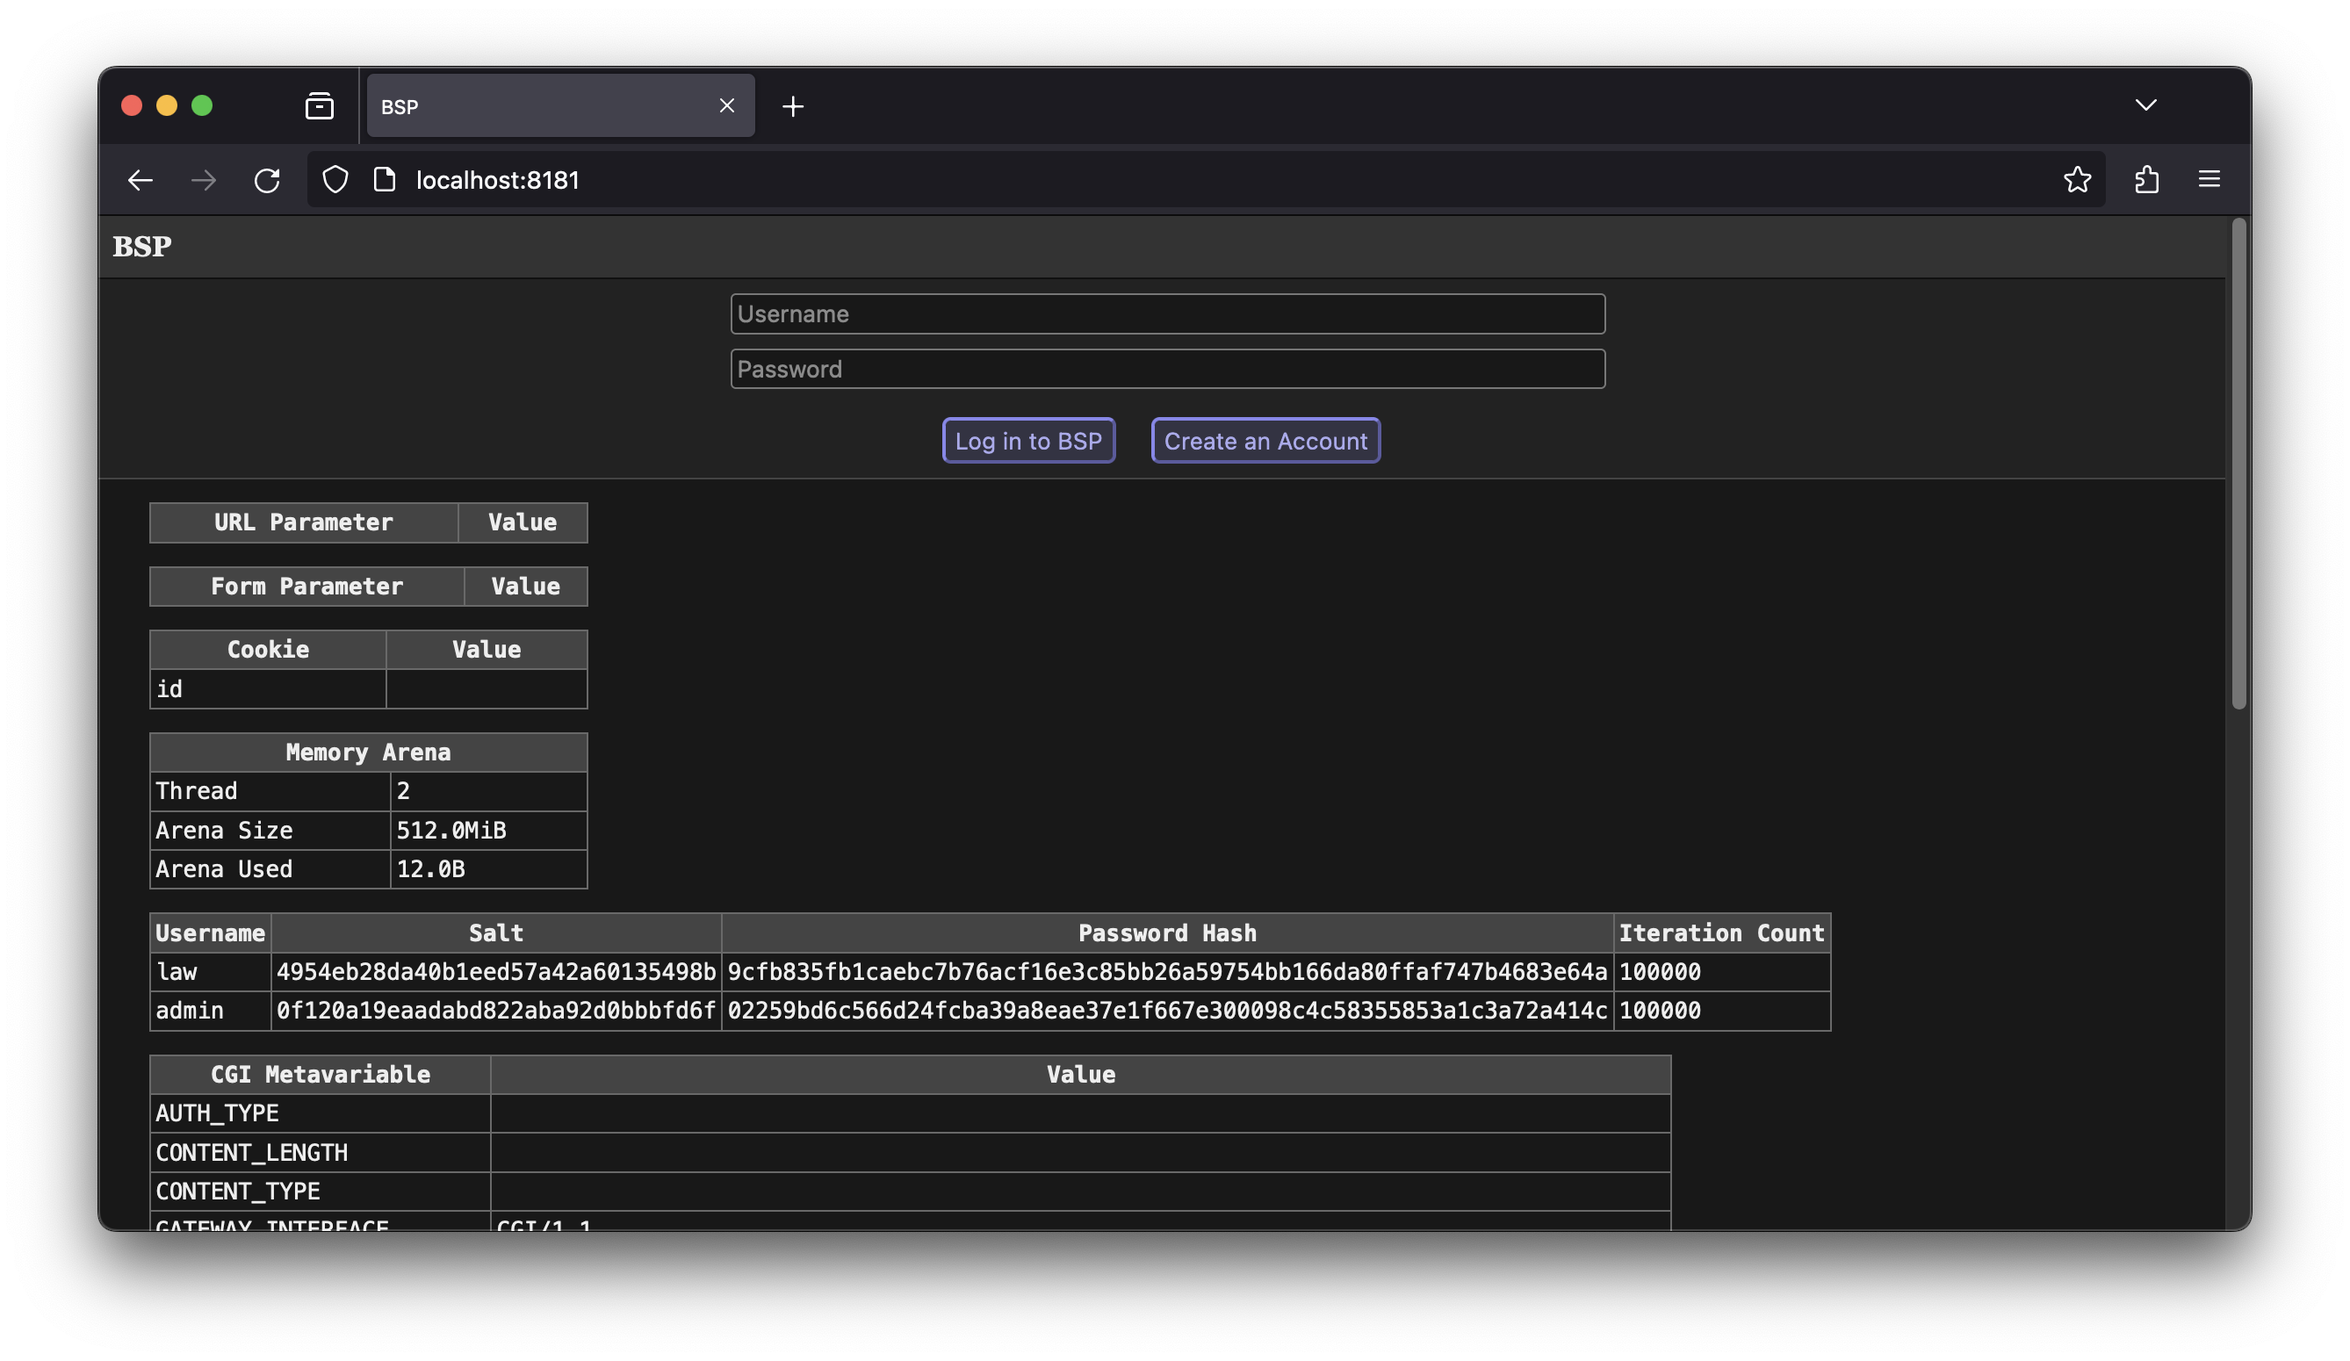
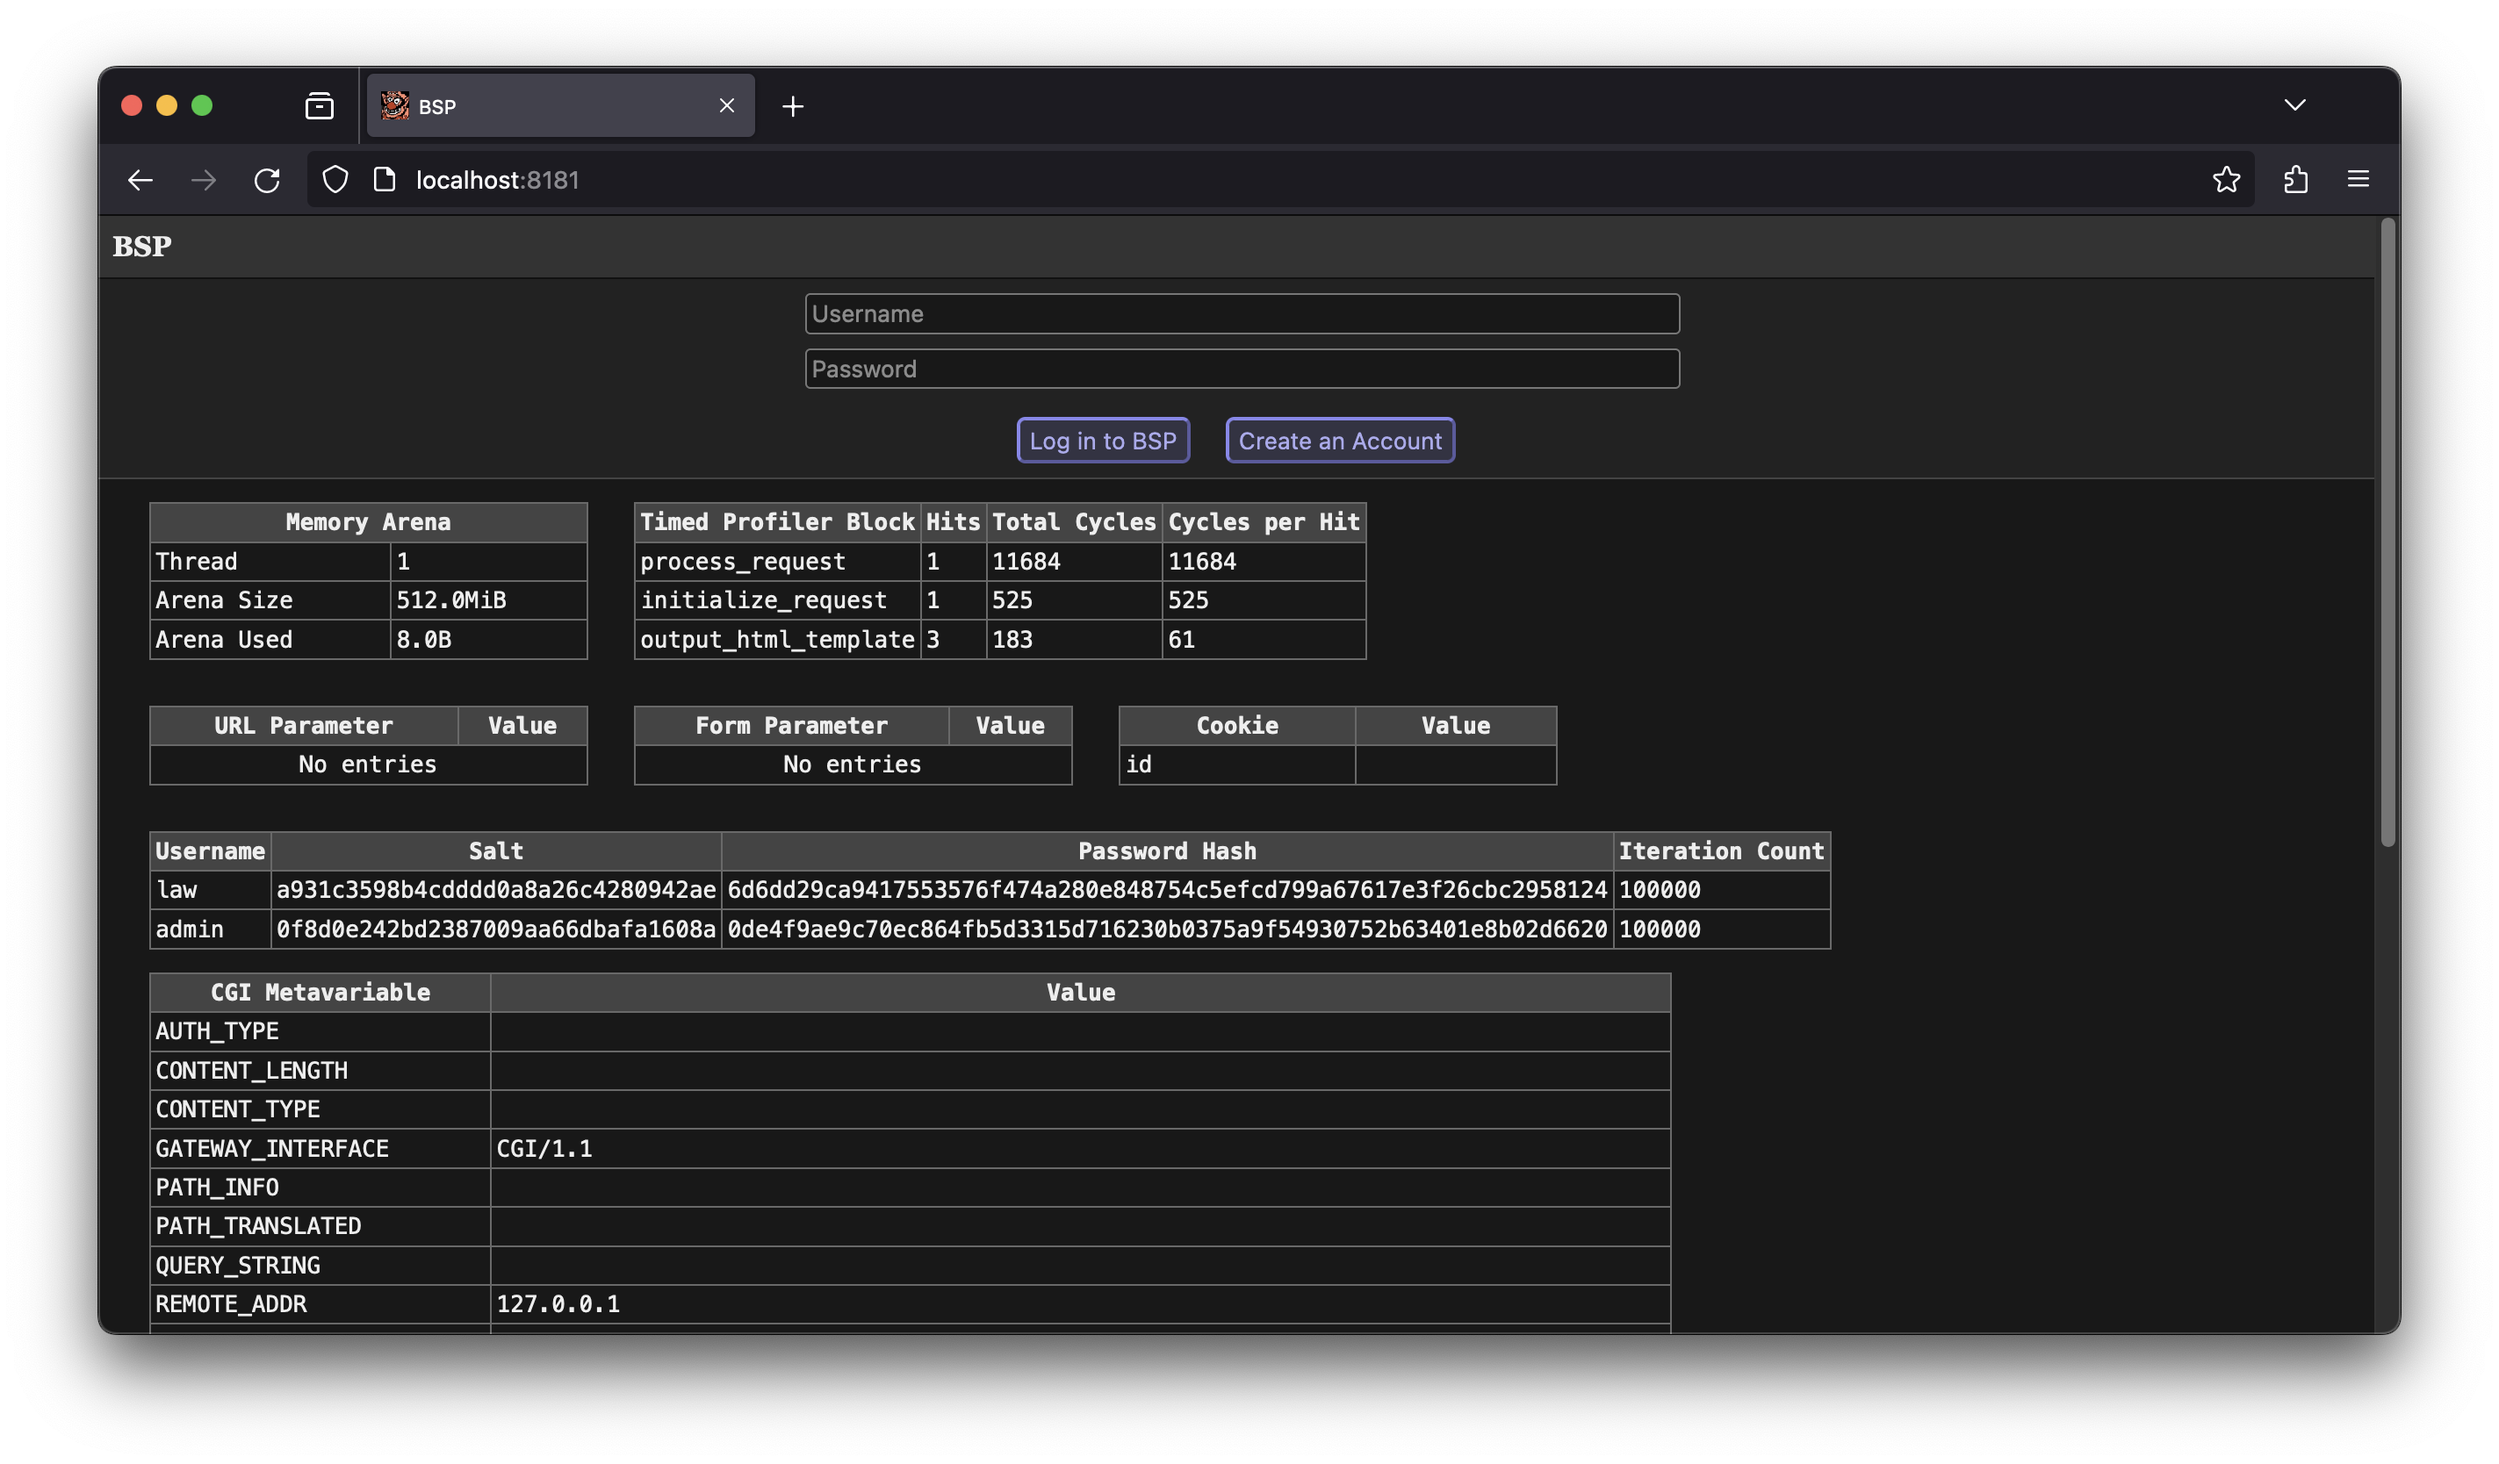
Improve debug information layout

Changed region(s): [[0.031, 0.031, 0.9615, 0.929], [0.3102, 0.1858, 0.6824, 0.2787]]

diff --git a/code/bsp.c b/code/bsp.c
@@ -728,7 +728,8 @@ debug_output_request_data(Request_State *request)
        "section#debug-information {padding: 0 1em; border-top: 1px solid #444; background: #181818;}"
        "section#debug-information table {font-family: monospace; min-width:250px; margin: 1em;}"
        "section#debug-information caption {text-align: left; font-weight: bold;}"
-       "section#debug-information th {background: #444;}"
+       "section#debug-information th {background: #444; white-space: nowrap;}"
+       "section#debug-information td.debug-empty {text-align: center;}"
        "</style>");
 
    Memory_Arena *arena = &request->thread.arena;
@@ -738,58 +739,6 @@ debug_output_request_data(Request_State *request)
 
    OUT("<section id=\"debug-information\">");
 
-   // Output url parameters
-   OUT("<table>");
-   OUT("<tr><th>URL Parameter</th><th>Value</th></tr>");
-   for(unsigned int index = 0; index < ARRAY_LENGTH(url->entries); ++index)
-   {
-      Key_Value_Pair *parameter = url->entries + index;
-      if(parameter->key && *parameter->key)
-      {
-         char *value = (parameter->value) ? parameter->value : "";
-         OUT("<tr>");
-         OUT("<td>%s</td>", encode_for_html(arena, parameter->key));
-         OUT("<td>%s</td>", encode_for_html(arena, value));
-         OUT("</tr>");
-      }
-   }
-   OUT("</table>");
-
-   // Output form parameters
-   OUT("<table>");
-   OUT("<tr><th>Form Parameter</th><th>Value</th></tr>");
-   for(unsigned int index = 0; index < ARRAY_LENGTH(form->entries); ++index)
-   {
-      Key_Value_Pair *parameter = form->entries + index;
-      if(parameter->key && *parameter->key)
-      {
-         char *value = (parameter->value) ? parameter->value : "";
-         OUT("<tr>");
-         OUT("<td>%s</td>", encode_for_html(arena, parameter->key));
-         OUT("<td>%s</td>", encode_for_html(arena, value));
-         OUT("</tr>");
-      }
-   }
-   OUT("</table>");
-
-   // Output form parameters
-   OUT("<table>");
-   OUT("<tr><th>Cookie</th><th>Value</th></tr>");
-   for(unsigned int index = 0; index < ARRAY_LENGTH(cookies->entries); ++index)
-   {
-      Key_Value_Pair *parameter = cookies->entries + index;
-      if(parameter->key && *parameter->key)
-      {
-         char *value = (parameter->value) ? parameter->value : "";
-         OUT("<tr>");
-         OUT("<td>%s</td>", encode_for_html(arena, parameter->key));
-         OUT("<td>%s</td>", encode_for_html(arena, value));
-         OUT("</tr>");
-      }
-   }
-   OUT("</table>");
-
-   // Output arena data
    float arena_size = (float)arena->size;
    char *units_size = "B";
    if(arena_size >= MEBIBYTES(1))
@@ -816,6 +765,8 @@ debug_output_request_data(Request_State *request)
       units_used = "KiB";
    }
 
+   OUT("<div style=\"display: flex;\">");
+   // Output arena data
    OUT("<table>");
    OUT("<tr><th colspan=\"2\">Memory Arena</th></tr>");
    OUT("<tr><td>Thread</td><td>%ld</td></tr>", request->thread.index);
@@ -823,7 +774,7 @@ debug_output_request_data(Request_State *request)
    OUT("<tr><td>Arena Used</td><td>%0.1f%s</td></tr>", arena_used, units_used);
    OUT("</table>");
 
-   OUT("<table>");
+   // Output performance timers
    OUT("<table>");
    OUT("<tr>");
    OUT("<th>Timed Profiler Block</th>");
@@ -845,6 +796,80 @@ debug_output_request_data(Request_State *request)
       }
    }
    OUT("</table>");
+   OUT("</div>");
+
+   OUT("<div style=\"display: flex;\">");
+
+   // Output url parameters
+   OUT("<table>");
+   OUT("<tr><th>URL Parameter</th><th>Value</th></tr>");
+   unsigned int url_parameter_count = 0;
+   for(unsigned int index = 0; index < ARRAY_LENGTH(url->entries); ++index)
+   {
+      Key_Value_Pair *parameter = url->entries + index;
+      if(parameter->key && *parameter->key)
+      {
+         char *value = (parameter->value) ? parameter->value : "";
+         OUT("<tr>");
+         OUT("<td>%s</td>", encode_for_html(arena, parameter->key));
+         OUT("<td>%s</td>", encode_for_html(arena, value));
+         OUT("</tr>");
+         url_parameter_count++;
+      }
+   }
+   if(url_parameter_count == 0)
+   {
+      OUT("<tr><td colspan=\"2\" class=\"debug-empty\">No entries</td></tr>");
+   }
+   OUT("</table>");
+
+   // Output form parameters
+   OUT("<table>");
+   OUT("<tr><th>Form Parameter</th><th>Value</th></tr>");
+   unsigned int form_parameter_count = 0;
+   for(unsigned int index = 0; index < ARRAY_LENGTH(form->entries); ++index)
+   {
+      Key_Value_Pair *parameter = form->entries + index;
+      if(parameter->key && *parameter->key)
+      {
+         char *value = (parameter->value) ? parameter->value : "";
+         OUT("<tr>");
+         OUT("<td>%s</td>", encode_for_html(arena, parameter->key));
+         OUT("<td>%s</td>", encode_for_html(arena, value));
+         OUT("</tr>");
+         form_parameter_count++;
+      }
+   }
+   if(form_parameter_count == 0)
+   {
+      OUT("<tr><td colspan=\"2\" class=\"debug-empty\">No entries</td></tr>");
+   }
+   OUT("</table>");
+
+   // Output cookies
+   OUT("<table>");
+   OUT("<tr><th>Cookie</th><th>Value</th></tr>");
+   unsigned int cookie_count = 0;
+   for(unsigned int index = 0; index < ARRAY_LENGTH(cookies->entries); ++index)
+   {
+      Key_Value_Pair *parameter = cookies->entries + index;
+      if(parameter->key && *parameter->key)
+      {
+         char *value = (parameter->value) ? parameter->value : "";
+         OUT("<tr>");
+         OUT("<td>%s</td>", encode_for_html(arena, parameter->key));
+         OUT("<td>%s</td>", encode_for_html(arena, value));
+         OUT("</tr>");
+         cookie_count++;
+      }
+   }
+   if(cookie_count == 0)
+   {
+      OUT("<tr><td colspan=\"2\" class=\"debug-empty\">No entries</td></tr>");
+   }
+   OUT("</table>");
+
+   OUT("</div>");
 
    // Output user accounts
    OUT("<table>");
@@ -868,6 +893,10 @@ debug_output_request_data(Request_State *request)
       OUT("</td>");
       OUT("<td>%d</td>", user->iteration_count);
       OUT("</tr>");
+   }
+   if(global_user_account_table.count == 0)
+   {
+      OUT("<tr><td colspan=\"4\" class=\"debug-empty\">No entries</td></tr>");
    }
    OUT("</table>");
 
